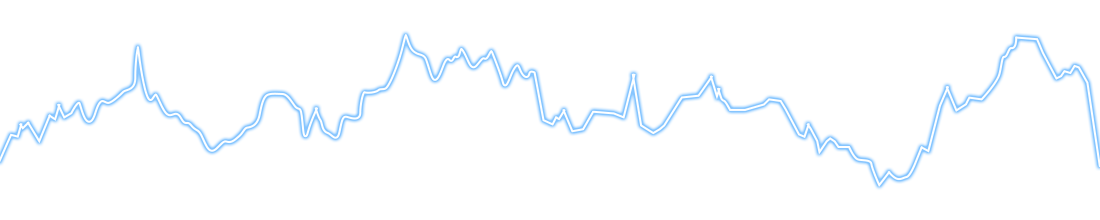
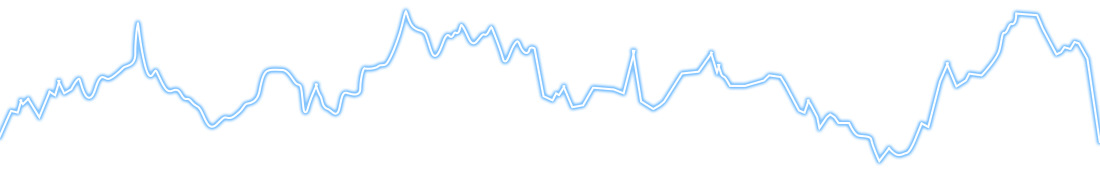
animate sparklines!!!

diff --git a/app/index.html b/app/index.html
@@ -17,7 +17,7 @@
 
             <div class="row data">
                 <div class="data-left EUR">
-                    <div>
+                    <div class="shadow">
                         <div id="base" class="data-currency">EUR</div>
                         <div id="base-price-major" class="data-price-major">1.01</div>
                         <div>
@@ -29,7 +29,7 @@
                 </div>
                 <div class="data-middle"></div>
                 <div class="data-right USD">
-                    <div>
+                    <div class="shadow">
                         <div id="quote" class="data-currency">USD</div>
                         <div id="quote-price-major" class="data-price-major">1.01</div>
                         <div>
@@ -39,6 +39,10 @@
                         </div>
                     </div>
                 </div>
+            </div>
+
+            <div class="row spark">
+                <!--img class="slide" src="images/spark1.png"-->
             </div>
 
             <div class="row stats">
@@ -60,14 +64,14 @@
             </div>
 
             <div class="news">
-                
+
             </div>
 
             <div class="stocktwits">
             </div>
 
             <div class="footer">
-               Download fxTrade | About | Settings 
+               Download fxTrade | About | Settings
             </div>
 
         </div>

diff --git a/app/styles/main.css b/app/styles/main.css
@@ -69,6 +69,16 @@ body {
     top: -1.2em;
 }
 
+.shadow {
+background: -moz-linear-gradient(top,  rgba(0,0,0,0) 0%, rgba(0,0,0,0) 75%, rgba(0,0,0,0.7) 100%);
+background: -webkit-gradient(linear, left top, left bottom, color-stop(0%,rgba(0,0,0,0)), color-stop(75%,rgba(0,0,0,0)), color-stop(100%,rgba(0,0,0,0.7)));
+background: -webkit-linear-gradient(top,  rgba(0,0,0,0) 0%,rgba(0,0,0,0) 75%,rgba(0,0,0,0.7) 100%);
+background: -o-linear-gradient(top,  rgba(0,0,0,0) 0%,rgba(0,0,0,0) 75%,rgba(0,0,0,0.7) 100%);
+background: -ms-linear-gradient(top,  rgba(0,0,0,0) 0%,rgba(0,0,0,0) 75%,rgba(0,0,0,0.7) 100%);
+background: linear-gradient(to bottom,  rgba(0,0,0,0) 0%,rgba(0,0,0,0) 75%,rgba(0,0,0,0.7) 100%);
+filter: progid:DXImageTransform.Microsoft.gradient( startColorstr='#00000000', endColorstr='#b3000000',GradientType=0 );
+}
+
 .CAD {
     background: url(../images/billcad.png);
 }
@@ -84,6 +94,24 @@ body {
 .USD {
     background: url(../images/billusd.jpg) 0 55%;
 }
+
+.spark {
+    width: 5000px;
+    margin-top: -50px;
+    height: 150px;
+    background: url(../images/spark1.png) 0 100% repeat-x;
+    -webkit-animation: slide 90s linear infinite;
+}
+
+@-webkit-keyframes slide {
+    from {
+        -webkit-transform: none;
+    }
+    to {
+        -webkit-transform: translate(-1100px);
+    }
+}
+
 
 .stats {
     background-color: #1a3956;
